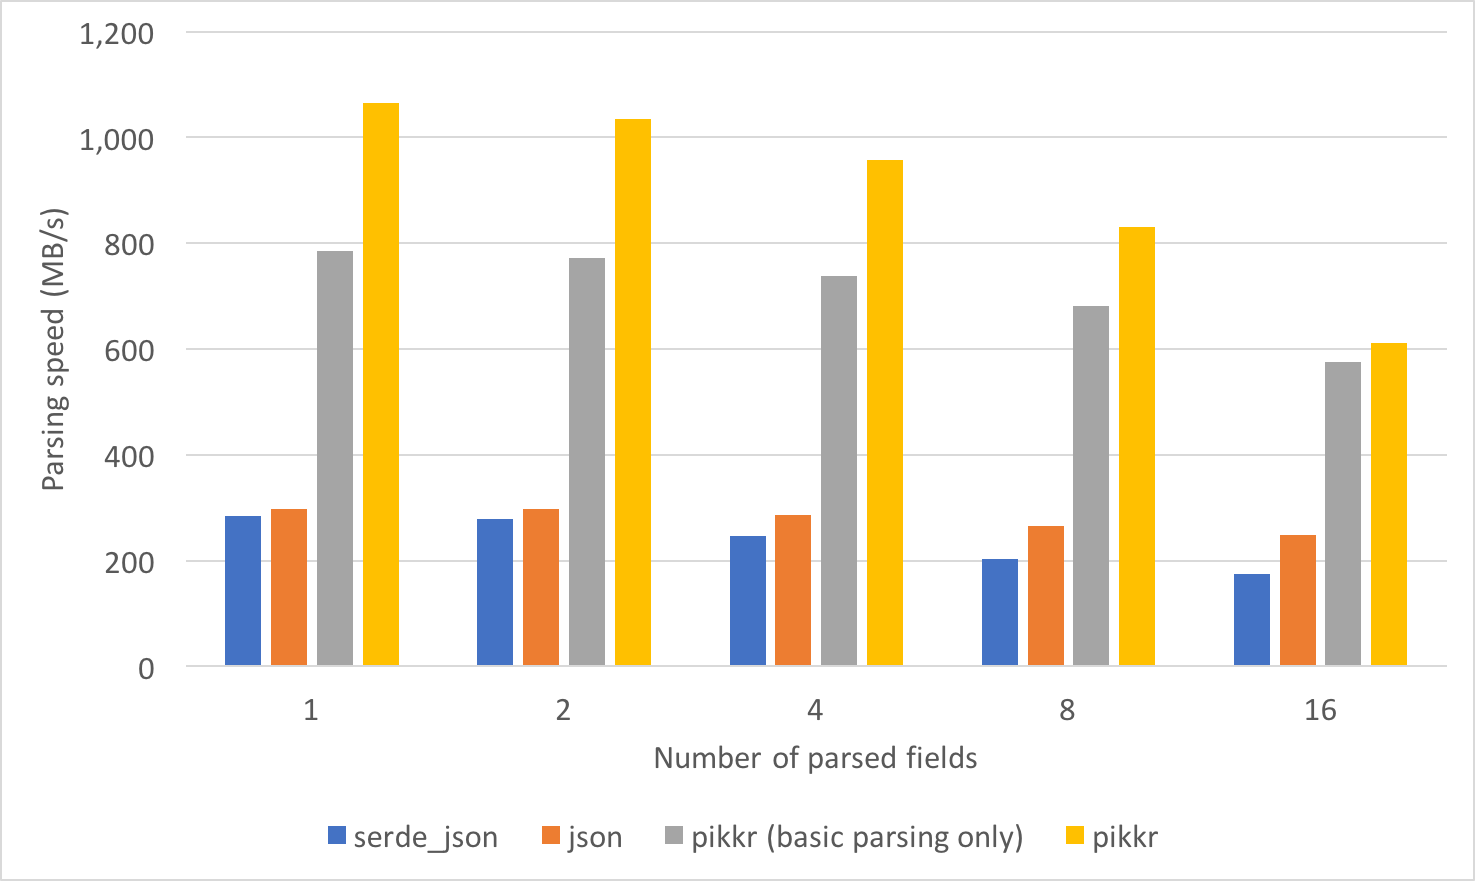
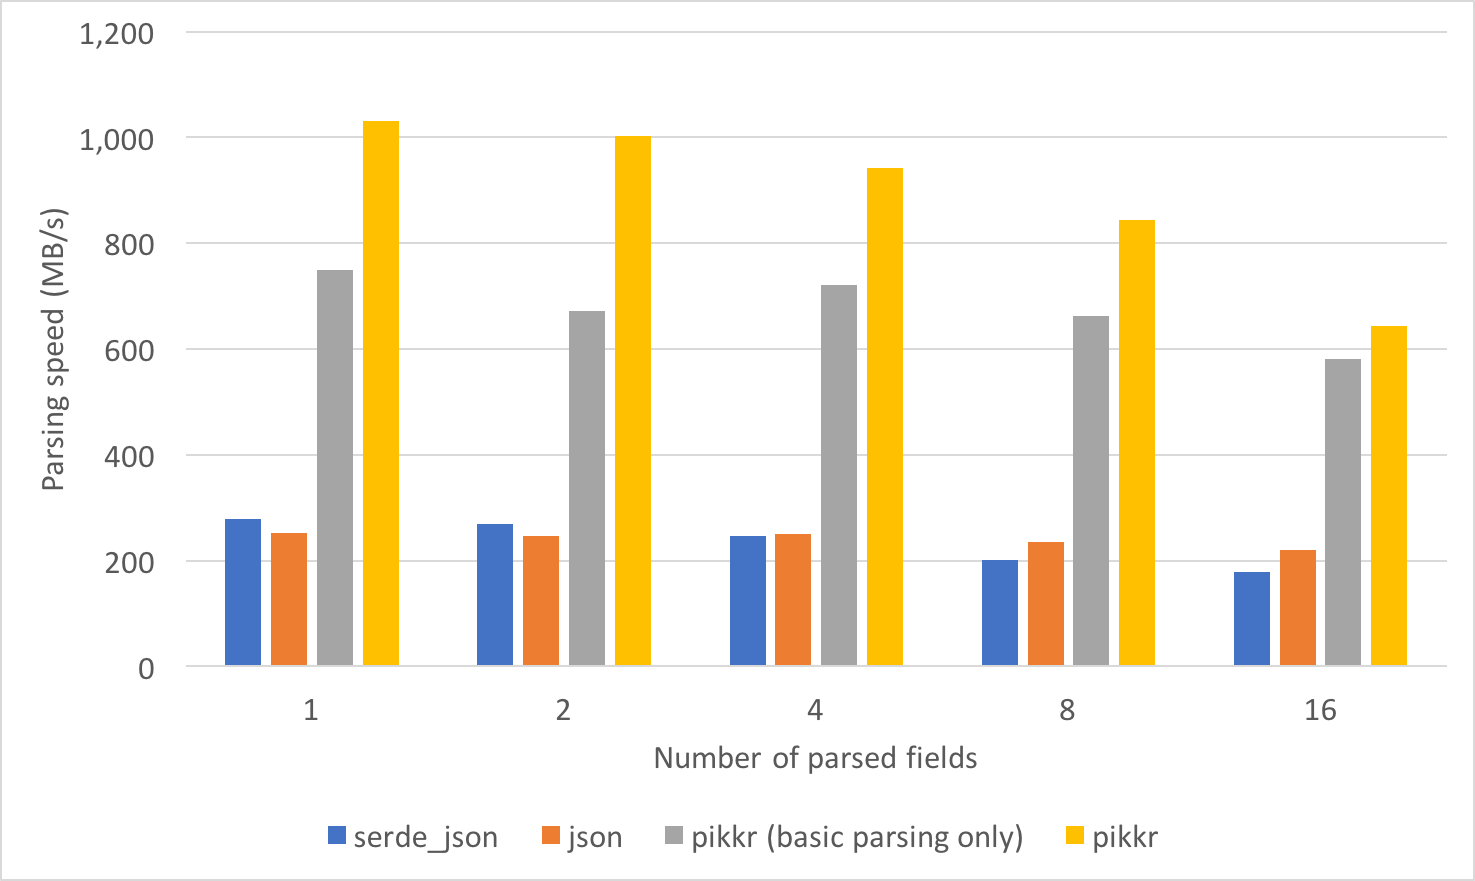
Update the benchmark result

diff --git a/README.md b/README.md
@@ -41,7 +41,7 @@ Memory: 16 GB
 
 * [serde_json](https://crates.io/crates/serde_json) 1.0.2
 * [json](https://crates.io/crates/json) 0.11.9
-* [pikkr](https://crates.io/crates/pikkr) 0.5.0
+* [pikkr](https://crates.io/crates/pikkr) 0.8.0
 
 ### JSON Data
 
